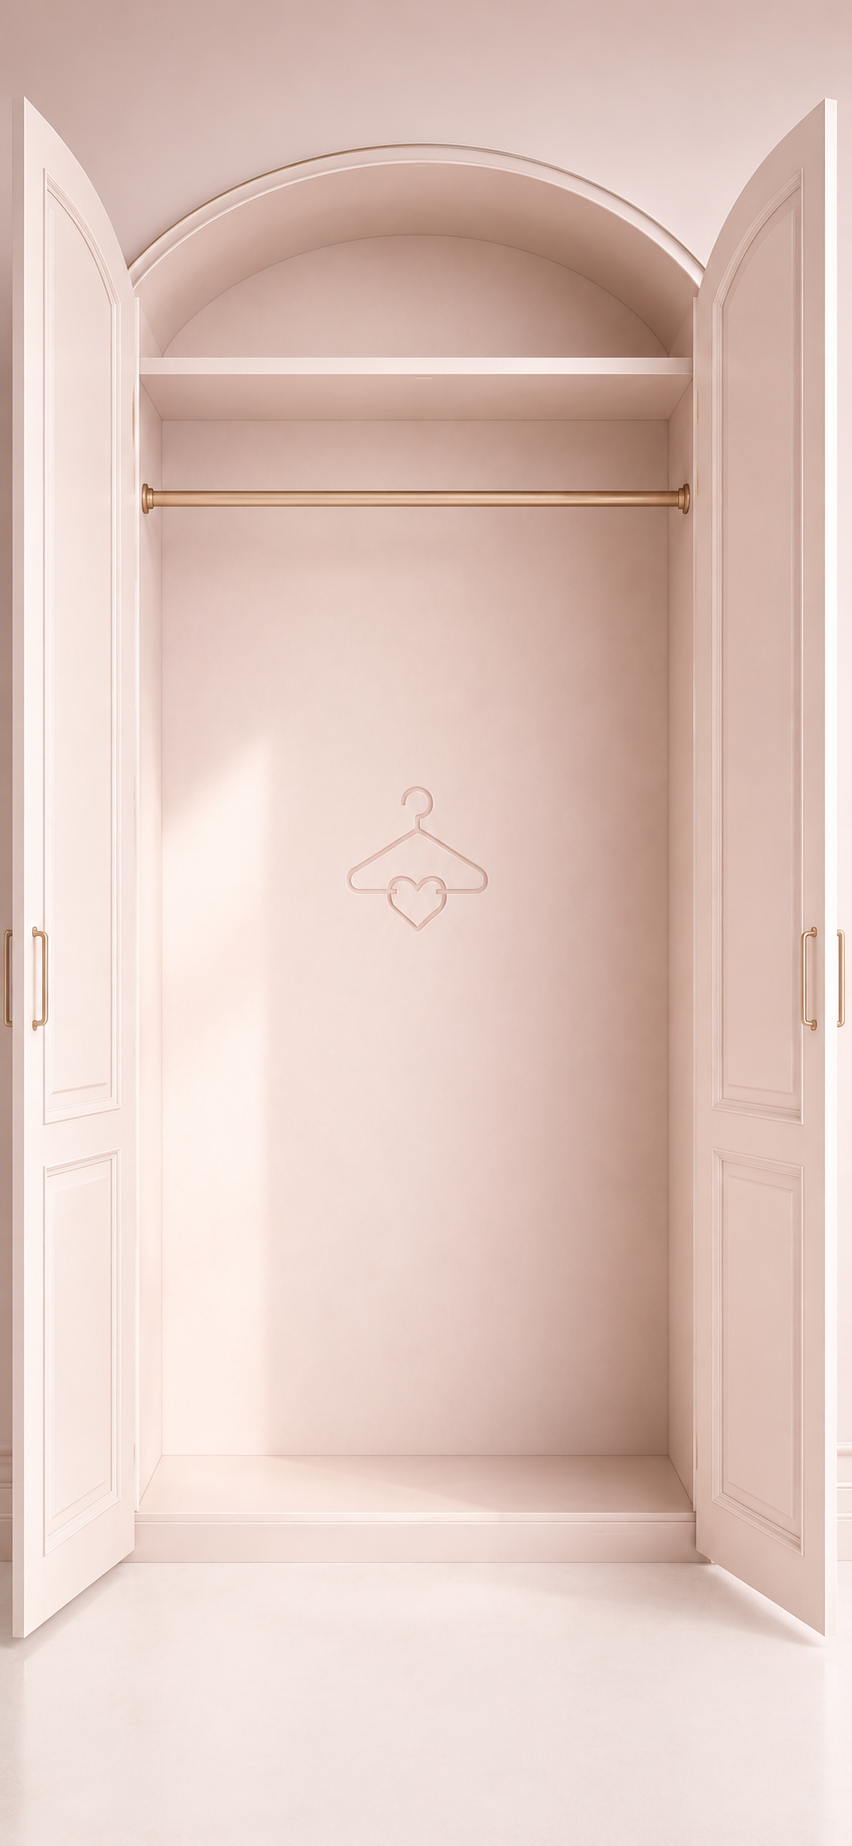
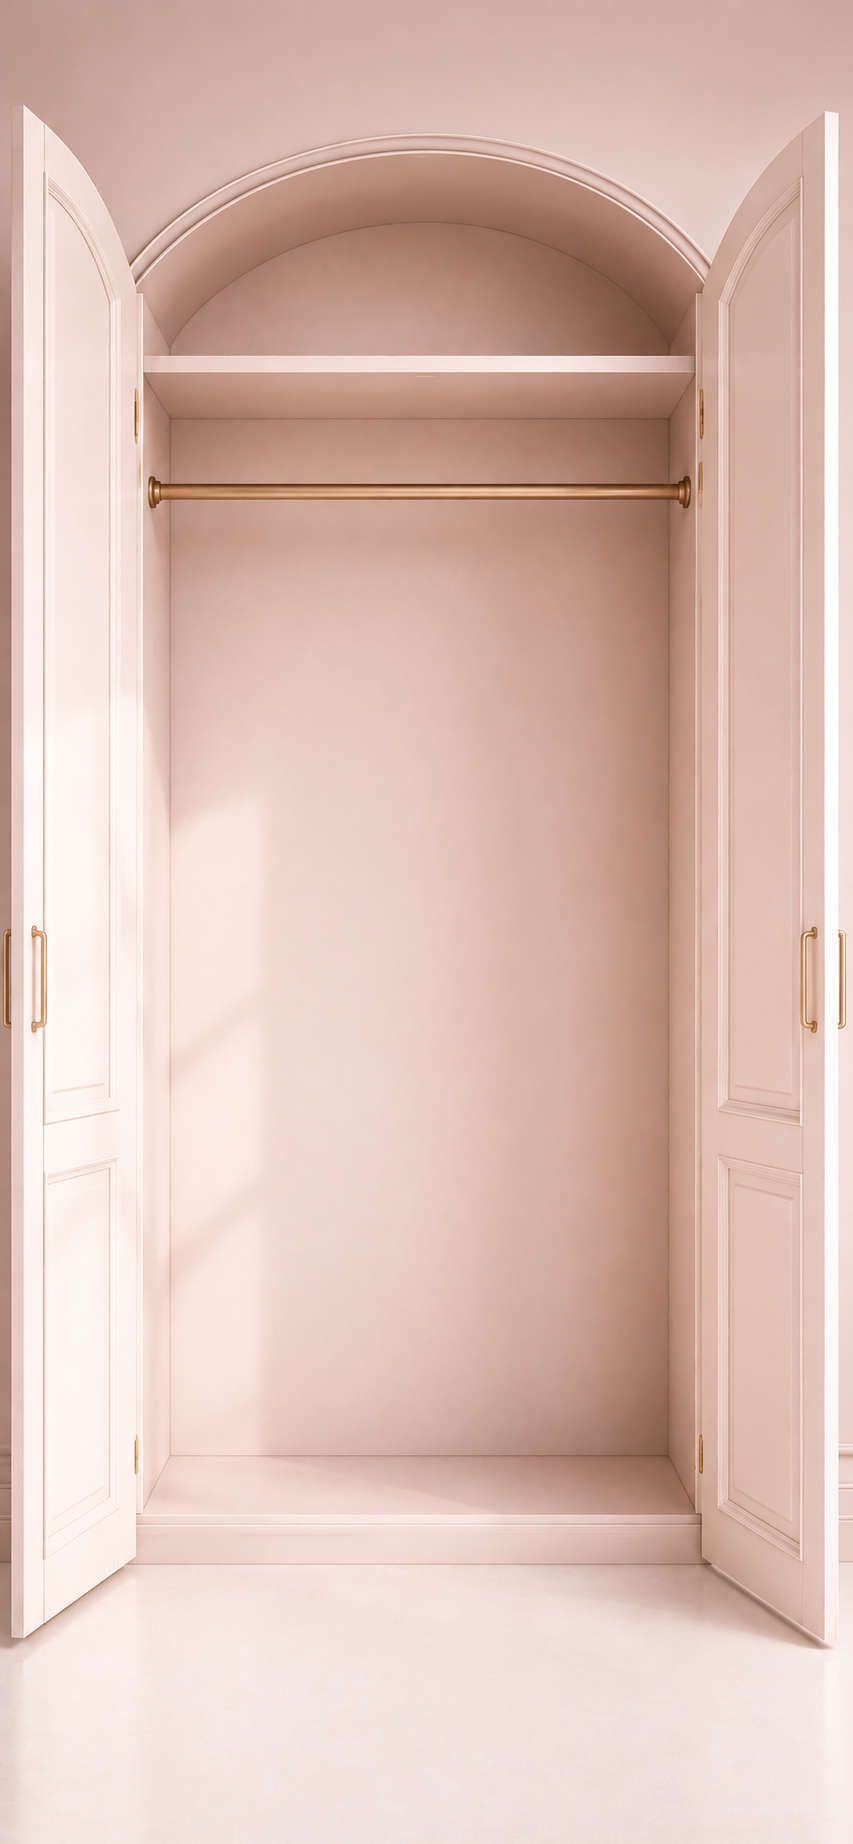
Podmień zdjęcie pustej Garderoby (wersja bez ikony wieszaka)
Nowe tło to ta sama szafa, ale bez ikony wieszaka-serca na tylnej
ścianie. Tekst przesunięty na środek całej wolnej przestrzeni ściany
(między drążkiem a podłogą) - Alignment(0, 0.08) zamiast poprzedniego
0.33 (które celowo mijało ikonę, teraz jej nie ma).

Claude-Session: https://claude.ai/code/session_01RhvbxsyxWmST9uLJGcAqaB

diff --git a/lib/screens/wardrobe_screen.dart b/lib/screens/wardrobe_screen.dart
@@ -196,11 +196,10 @@ class _WardrobeScreenState extends State<WardrobeScreen> {
   }
 
   /// Pusty stan Garderoby - ten sam wzorzec co na pustym ekranie Stylizacji:
-  /// tło (otwarta szafa z wieszakiem-sercem na ścianie) wypełnia całą
-  /// szerokość ekranu, tekst i przycisk leżą bezpośrednio na zdjęciu, bez
-  /// karty pod spodem. Umieszczone POD ikoną wieszaka (już narysowaną w
-  /// grafice), na pustej ścianie między nią a podłogą - Alignment(0, 0.33)
-  /// to wymierzony piksel po pikselu środek tej wolnej przestrzeni.
+  /// tło (otwarta szafa) wypełnia całą szerokość ekranu, tekst i przycisk
+  /// leżą bezpośrednio na zdjęciu, bez karty pod spodem. Umieszczone na
+  /// pustej ścianie między drążkiem a podłogą - Alignment(0, 0.08) to
+  /// wymierzony piksel po pikselu środek tej wolnej przestrzeni.
   ///
   /// SingleChildScrollView (a nie Stack wprost jako body) - inaczej niż w
   /// ListView na ekranie Stylizacji, tu Scaffold.body dostaje ograniczoną
@@ -210,7 +209,7 @@ class _WardrobeScreenState extends State<WardrobeScreen> {
   Widget _emptyWardrobeHero(BuildContext context) {
     return SingleChildScrollView(
       child: Stack(
-        alignment: const Alignment(0, 0.33),
+        alignment: const Alignment(0, 0.08),
         children: [
           Image.asset(
             'assets/images/wardrobe_empty_bg.png',
